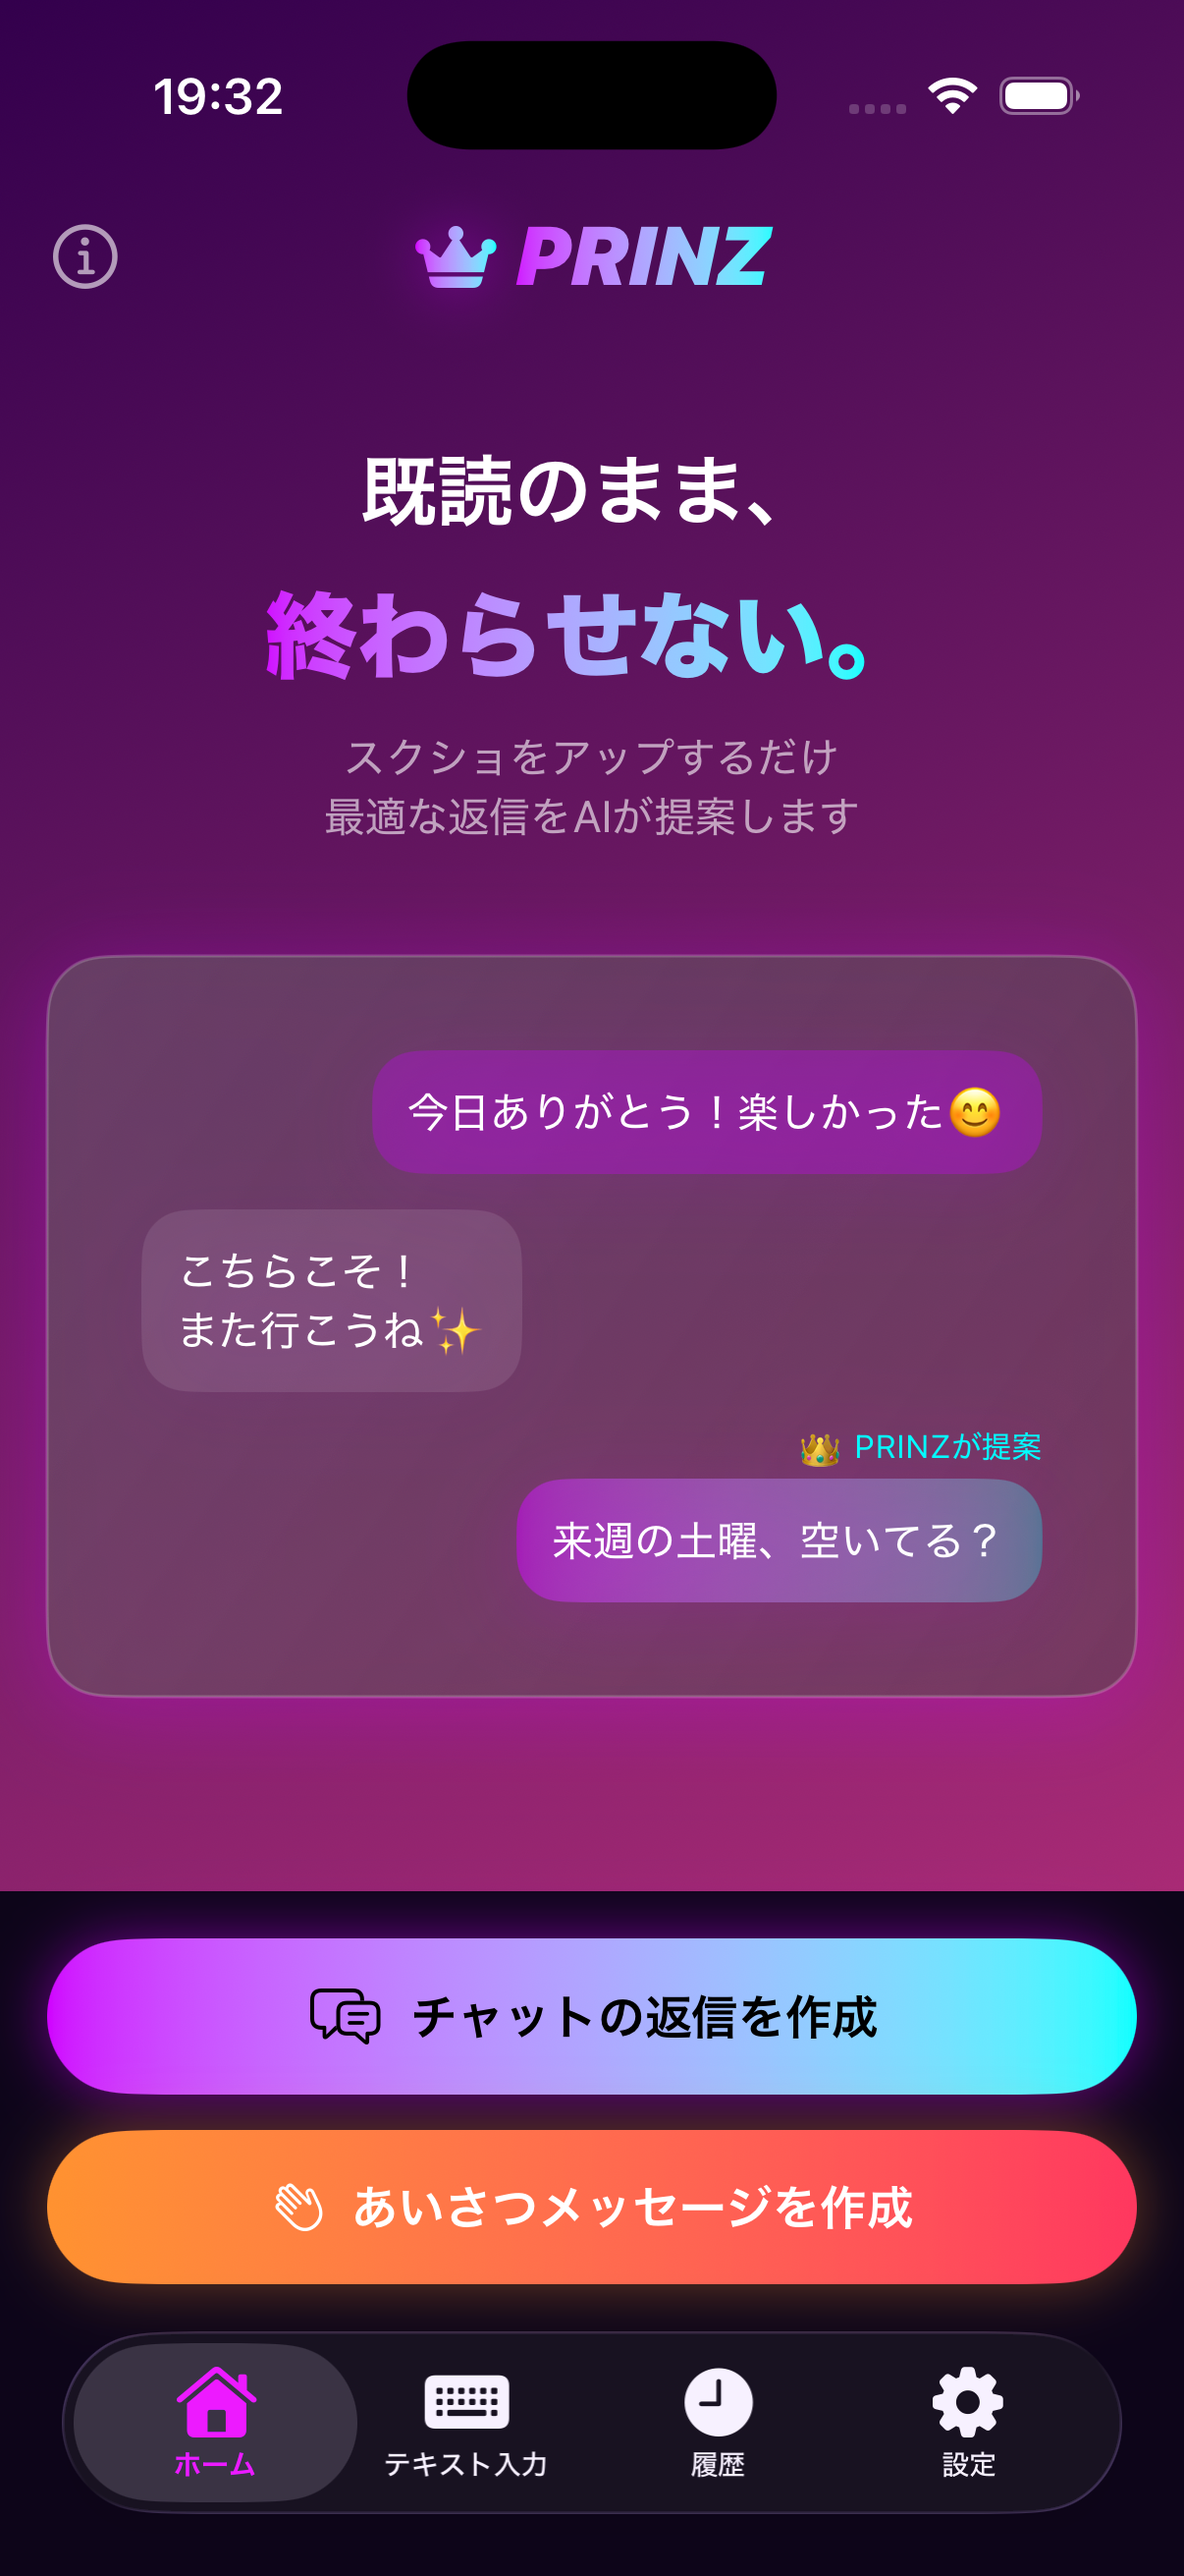
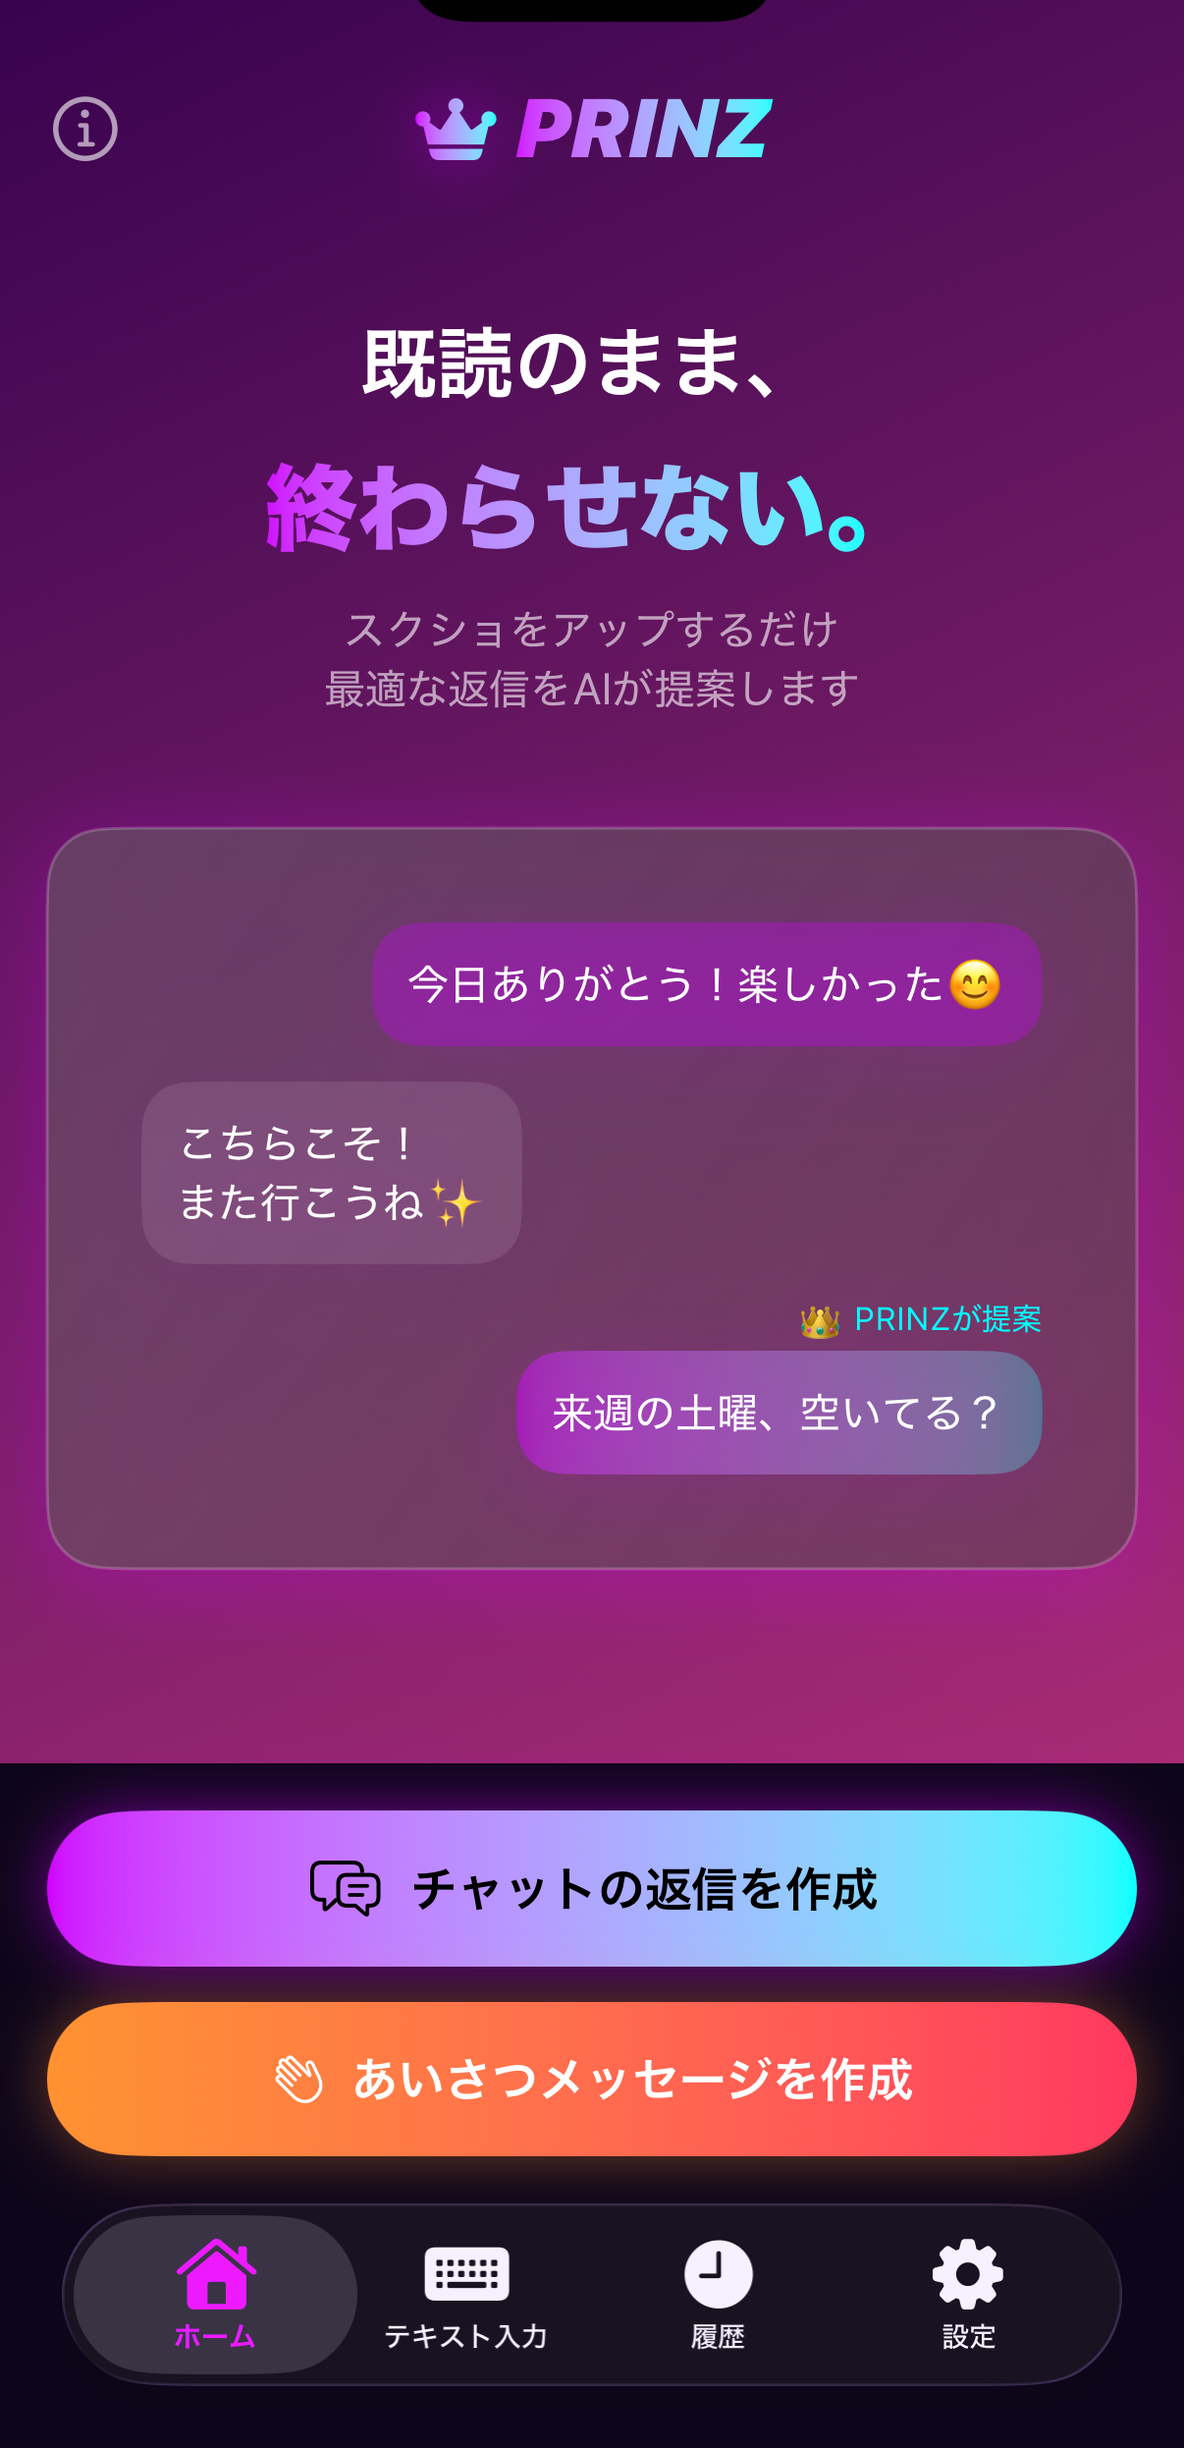
chore: スクリーンショット改善・利用規約修正・設定画面UI改善
- App Storeスクリーンショット: スライド順変更、ステータスバー削除
- 利用規約: Premium利用回数を無制限に修正、技術詳細(OpenAI)表記削除
- PersonalType: 説明文を2行・中央揃えに整形

diff --git a/docs/appstore-screenshots-simple.html b/docs/appstore-screenshots-simple.html
@@ -89,15 +89,7 @@
   }
 
   .phone-notch {
-    position: absolute;
-    top: 0;
-    left: 50%;
-    transform: translateX(-50%);
-    width: 80px;
-    height: 20px;
-    background: #000;
-    border-radius: 0 0 14px 14px;
-    z-index: 10;
+    display: none;
   }
 
   /* ─── Screenshot Image ─── */
@@ -169,78 +161,24 @@
 <div class="gallery">
 
   <!-- ════════════════════════════════════════ -->
-  <!-- Slide 1 -->
+  <!-- Slide 1: スクショを送るだけ。 -->
   <!-- ════════════════════════════════════════ -->
   <div class="screenshot">
     <div class="phones">
       <div class="phone-wrapper">
-        <!-- Back Phone (左上) -->
+        <!-- Back Phone (左): ホーム画面 -->
         <div class="phone phone-back">
           <div class="phone-inner">
             <div class="phone-notch"></div>
-            <!-- ↓ ここにスクショを入れる -->
-            <div class="phone-screen placeholder">
-              スクショ1-A<br>
-              (ホーム画面)
-            </div>
-            <!-- 実際のスクショ: <img src="screenshot-1a.png" class="phone-screen" alt=""> -->
+            <img src="screenshots/appstore/6.7-inch/01-home.png" class="phone-screen" alt="ホーム">
           </div>
         </div>
 
-        <!-- Front Phone (右下) -->
+        <!-- Front Phone (右): トーン選択画面 -->
         <div class="phone phone-front">
           <div class="phone-inner">
             <div class="phone-notch"></div>
-            <!-- ↓ ここにスクショを入れる -->
-            <div class="phone-screen placeholder">
-              スクショ1-B<br>
-              (返信結果画面)
-            </div>
-            <!-- 実際のスクショ: <img src="screenshot-1b.png" class="phone-screen" alt=""> -->
-          </div>
-        </div>
-      </div>
-    </div>
-
-    <div class="copy-area">
-      <div class="main-copy">
-        返信に悩む時間を<br>
-        <span class="highlight">0秒に。</span>
-      </div>
-      <div class="sub-copy">
-        AIが3パターンの返信を<br>
-        即座に生成してくれる
-      </div>
-    </div>
-  </div>
-
-  <!-- ════════════════════════════════════════ -->
-  <!-- Slide 2 -->
-  <!-- ════════════════════════════════════════ -->
-  <div class="screenshot">
-    <div class="phones">
-      <div class="phone-wrapper">
-        <!-- Back Phone (左上) -->
-        <div class="phone phone-back">
-          <div class="phone-inner">
-            <div class="phone-notch"></div>
-            <!-- ↓ ここにスクショを入れる -->
-            <div class="phone-screen placeholder">
-              スクショ2-A<br>
-              (トーン選択)
-            </div>
-          </div>
-        </div>
-
-        <!-- Front Phone (右下) -->
-        <div class="phone phone-front">
-          <div class="phone-inner">
-            <div class="phone-notch"></div>
-            <!-- ↓ ここにスクショを入れる -->
-            <div class="phone-screen placeholder">
-              スクショ2-B<br>
-              (コピー完了)
-            </div>
+            <img src="screenshots/appstore/6.7-inch/02-tone.png" class="phone-screen" alt="トーン選択">
           </div>
         </div>
       </div>
@@ -258,13 +196,48 @@
     </div>
   </div>
 
+  <!-- ════════════════════════════════════════ -->
+  <!-- Slide 2: 返信に悩む時間を0秒に。 -->
+  <!-- ════════════════════════════════════════ -->
+  <div class="screenshot">
+    <div class="phones">
+      <div class="phone-wrapper">
+        <!-- Back Phone (左): チャット解析画面 -->
+        <div class="phone phone-back">
+          <div class="phone-inner">
+            <div class="phone-notch"></div>
+            <img src="screenshots/appstore/6.7-inch/03-chat.png" class="phone-screen" alt="チャット解析">
+          </div>
+        </div>
+
+        <!-- Front Phone (右): 返信結果画面 -->
+        <div class="phone phone-front">
+          <div class="phone-inner">
+            <div class="phone-notch"></div>
+            <img src="screenshots/appstore/6.7-inch/04-result.png" class="phone-screen" alt="返信結果">
+          </div>
+        </div>
+      </div>
+    </div>
+
+    <div class="copy-area">
+      <div class="main-copy">
+        返信に悩む時間を<br>
+        <span class="highlight">0秒に。</span>
+      </div>
+      <div class="sub-copy">
+        AIが3パターンの返信を<br>
+        即座に生成してくれる
+      </div>
+    </div>
+  </div>
+
 </div>
 
 <p class="note">
-  <strong>スクショの入れ方:</strong><br>
-  1. 実機でスクショを撮影 → <code>docs/</code> フォルダに保存<br>
-  2. <code>&lt;div class="phone-screen placeholder"&gt;</code> を <code>&lt;img src="xxx.png" class="phone-screen"&gt;</code> に置換<br>
-  3. ブラウザで開いて DevTools → 要素を右クリック → 「ノードのスクリーンショットを撮影」
+  <strong>App Store用画像の書き出し方:</strong><br>
+  ブラウザで開く → DevTools (F12) → 各 <code>.screenshot</code> 要素を右クリック → 「ノードのスクリーンショットを撮影」<br>
+  出力サイズ: 1290×2796 px (3倍表示時)
 </p>
 
 </body>

diff --git a/PRINZ/Shared/Models/PersonalType.swift b/PRINZ/Shared/Models/PersonalType.swift
@@ -41,16 +41,16 @@ enum PersonalType: String, Codable, CaseIterable {
     
     var description: String {
         switch self {
-        case .intellectual: return "博識で論理的。知的な語彙を使い、スマートな会話を展開する。"
-        case .passionate: return "情熱的でエネルギーに溢れている。ストレートな表現を好み、相手を引っ張る。"
-        case .gentle: return "とにかく優しく、包容力がある。相手を肯定し、安心感を与える言葉を選ぶ。"
-        case .funny: return "ユーモアセンス抜群。ボケやツッコミを交え、相手を笑わせることを最優先する。"
-        case .cool: return "感情を表に出しすぎず、余裕がある。短文で核心を突く、ミステリアスな色気を持つ。"
-        case .sincere: return "嘘をつかない誠実さ。丁寧な言葉遣いで、真剣に向き合う姿勢を見せる。"
-        case .active: return "フットワークが軽く、ノリが良い。絵文字も適度に使い、明るくテンポ良い会話をする。"
-        case .shy: return "少し奥手で謙虚。丁寧すぎるくらい丁寧だが、そこが可愛げに見えるように。"
-        case .mysterious: return "生活感を見せない。詩的な表現や、意味深な言葉で相手の興味を惹く。"
-        case .natural: return "飾らない等身大。親しみやすく、友達のような距離感でリラックスして話す。"
+        case .intellectual: return "博識で論理的\nスマートな会話を展開"
+        case .passionate: return "情熱的でストレート\n相手を引っ張るタイプ"
+        case .gentle: return "優しく包容力がある\n安心感を与える言葉選び"
+        case .funny: return "ユーモアセンス抜群\n相手を笑わせることが得意"
+        case .cool: return "余裕があり落ち着いた印象\n短文で核心を突く"
+        case .sincere: return "嘘をつかない誠実さ\n真剣に向き合う姿勢"
+        case .active: return "フットワーク軽くノリ良し\n明るくテンポ良い会話"
+        case .shy: return "少し奥手で謙虚\n丁寧さが可愛げに見える"
+        case .mysterious: return "意味深で興味を惹く\n詩的な表現が特徴"
+        case .natural: return "飾らない等身大\n友達のような距離感"
         }
     }
 }

diff --git a/firebase/public/terms.html b/firebase/public/terms.html
@@ -203,13 +203,13 @@
       <tr>
         <td>Premium（週額）</td>
         <td>480円/週</td>
-        <td>100回/日</td>
+        <td>無制限</td>
         <td>3日間無料トライアル</td>
       </tr>
       <tr>
         <td>Premium（年額）</td>
         <td>9,800円/年</td>
-        <td>100回/日</td>
+        <td>無制限</td>
         <td>3日間無料トライアル</td>
       </tr>
     </table>
@@ -282,7 +282,7 @@
     <ol>
       <li>当運営は、本アプリの完全性、正確性、信頼性、有用性等について保証しません。</li>
       <li>当運営は、本アプリの中断、停止、変更、終了により生じた損害について責任を負いません。</li>
-      <li>本アプリで使用するAI（OpenAI）の動作や出力について、当運営は保証しません。</li>
+      <li>本アプリで使用するAIの動作や出力について、当運営は保証しません。</li>
     </ol>
 
     <h3>8.2 ユーザー間トラブルに関する免責</h3>

diff --git a/PRINZ/Views/SettingsView.swift b/PRINZ/Views/SettingsView.swift
@@ -211,6 +211,8 @@ struct SettingsView: View {
                     Text(description)
                         .font(.caption)
                         .foregroundColor(.white.opacity(0.5))
+                        .multilineTextAlignment(.center)
+                        .frame(maxWidth: .infinity)
                         .padding(.top, 4)
                 }
             }
